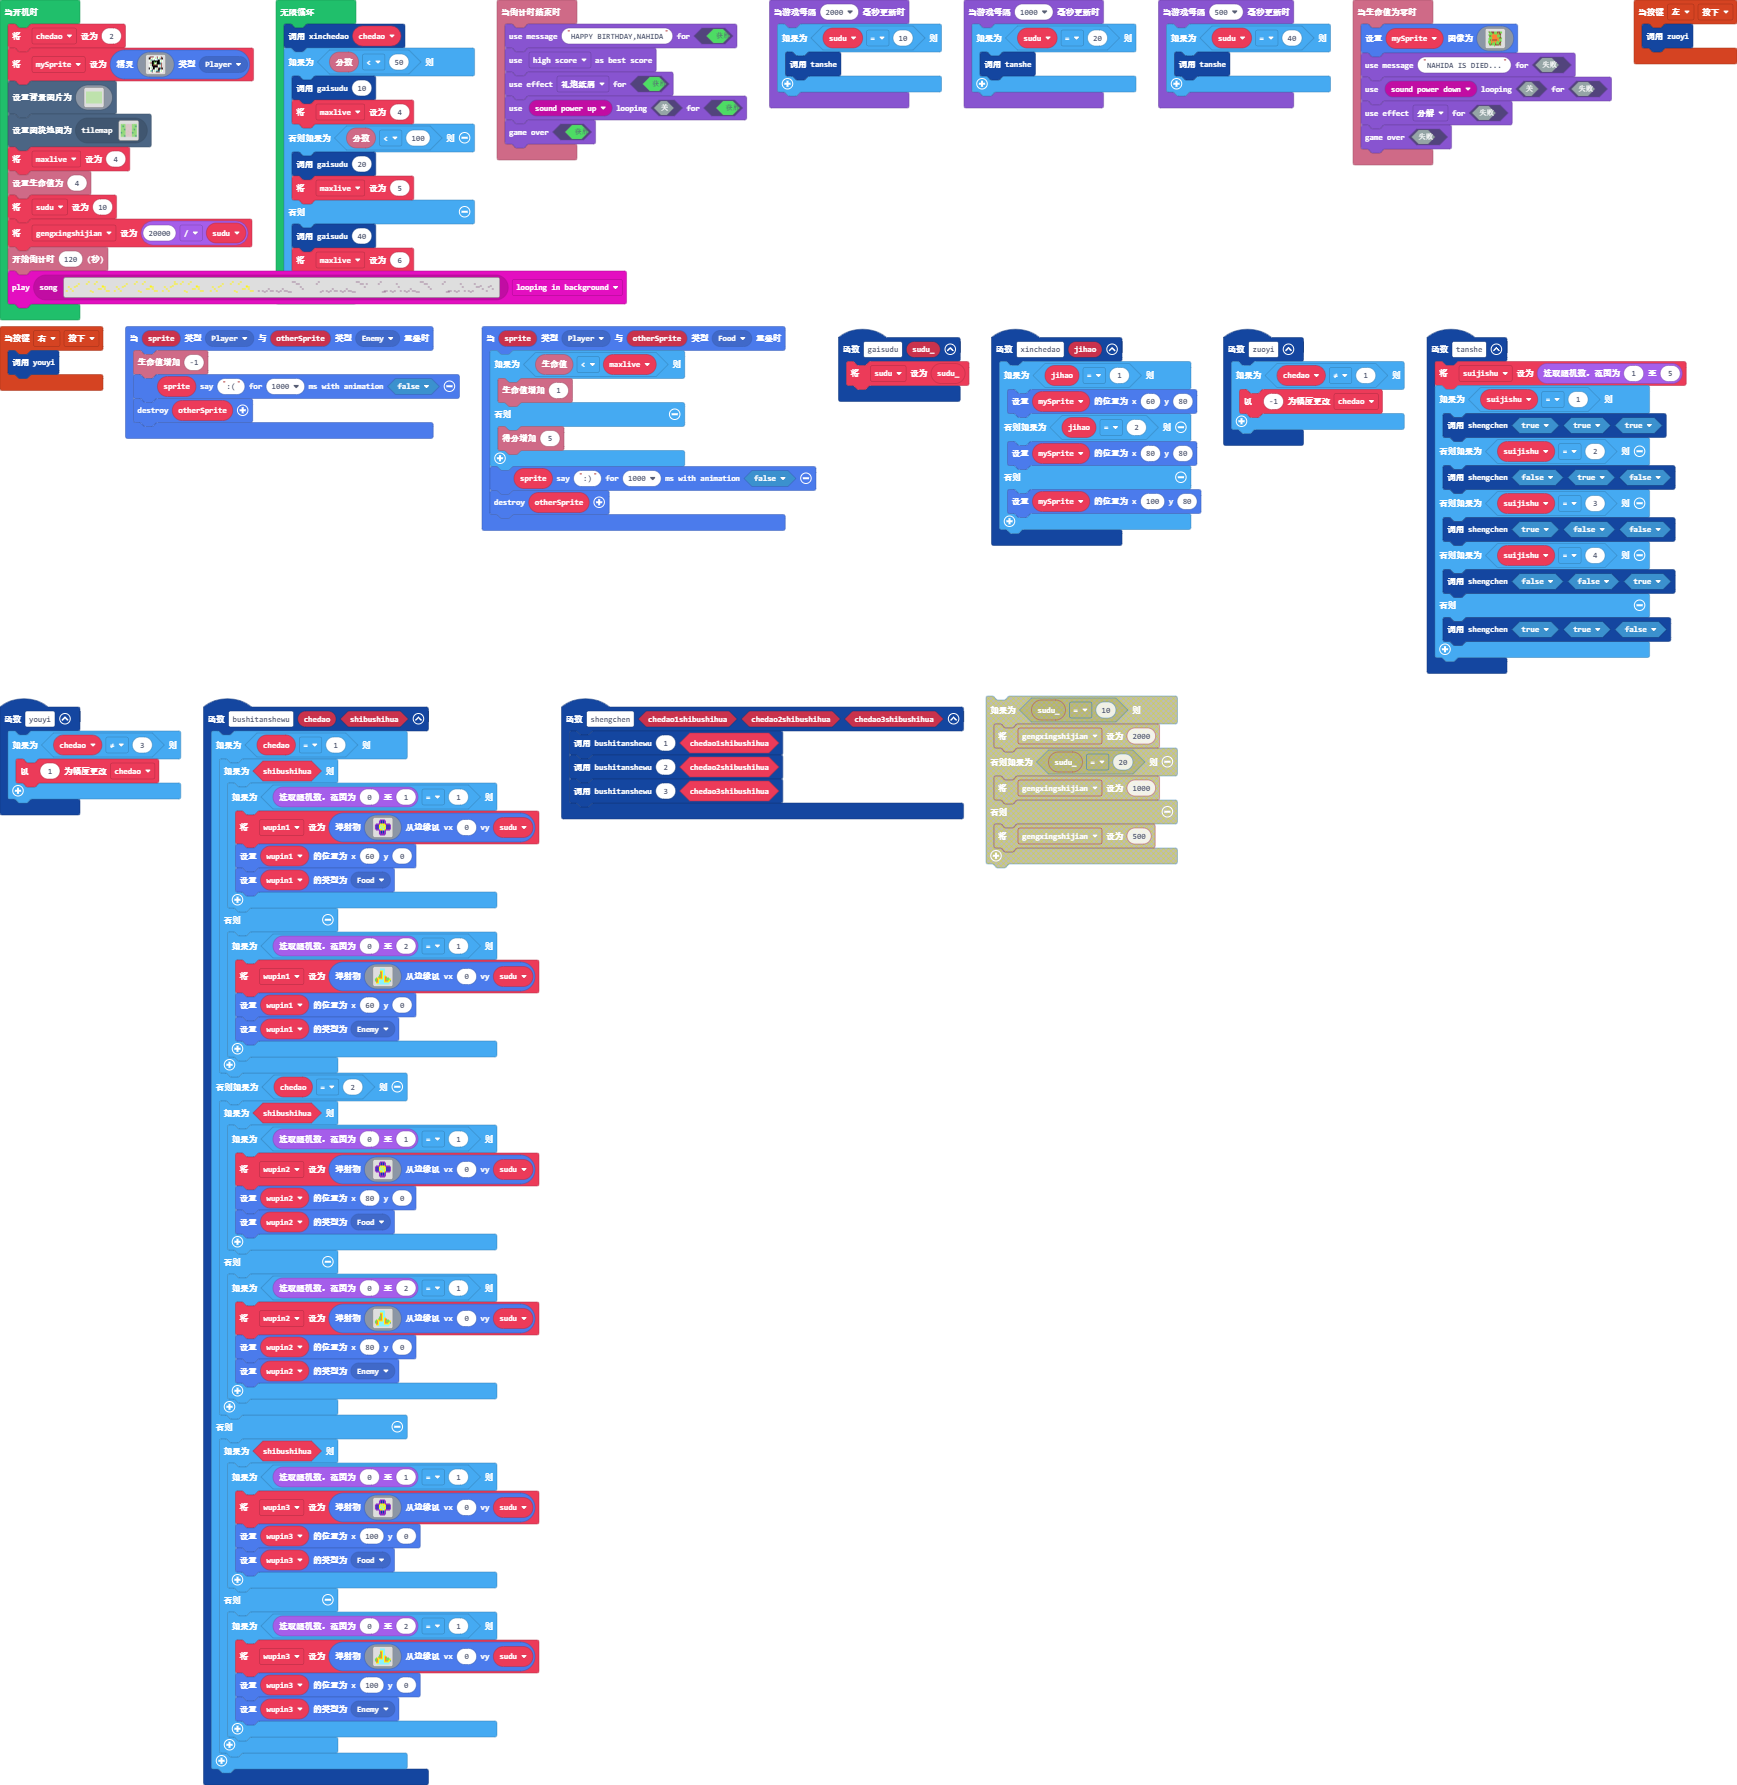
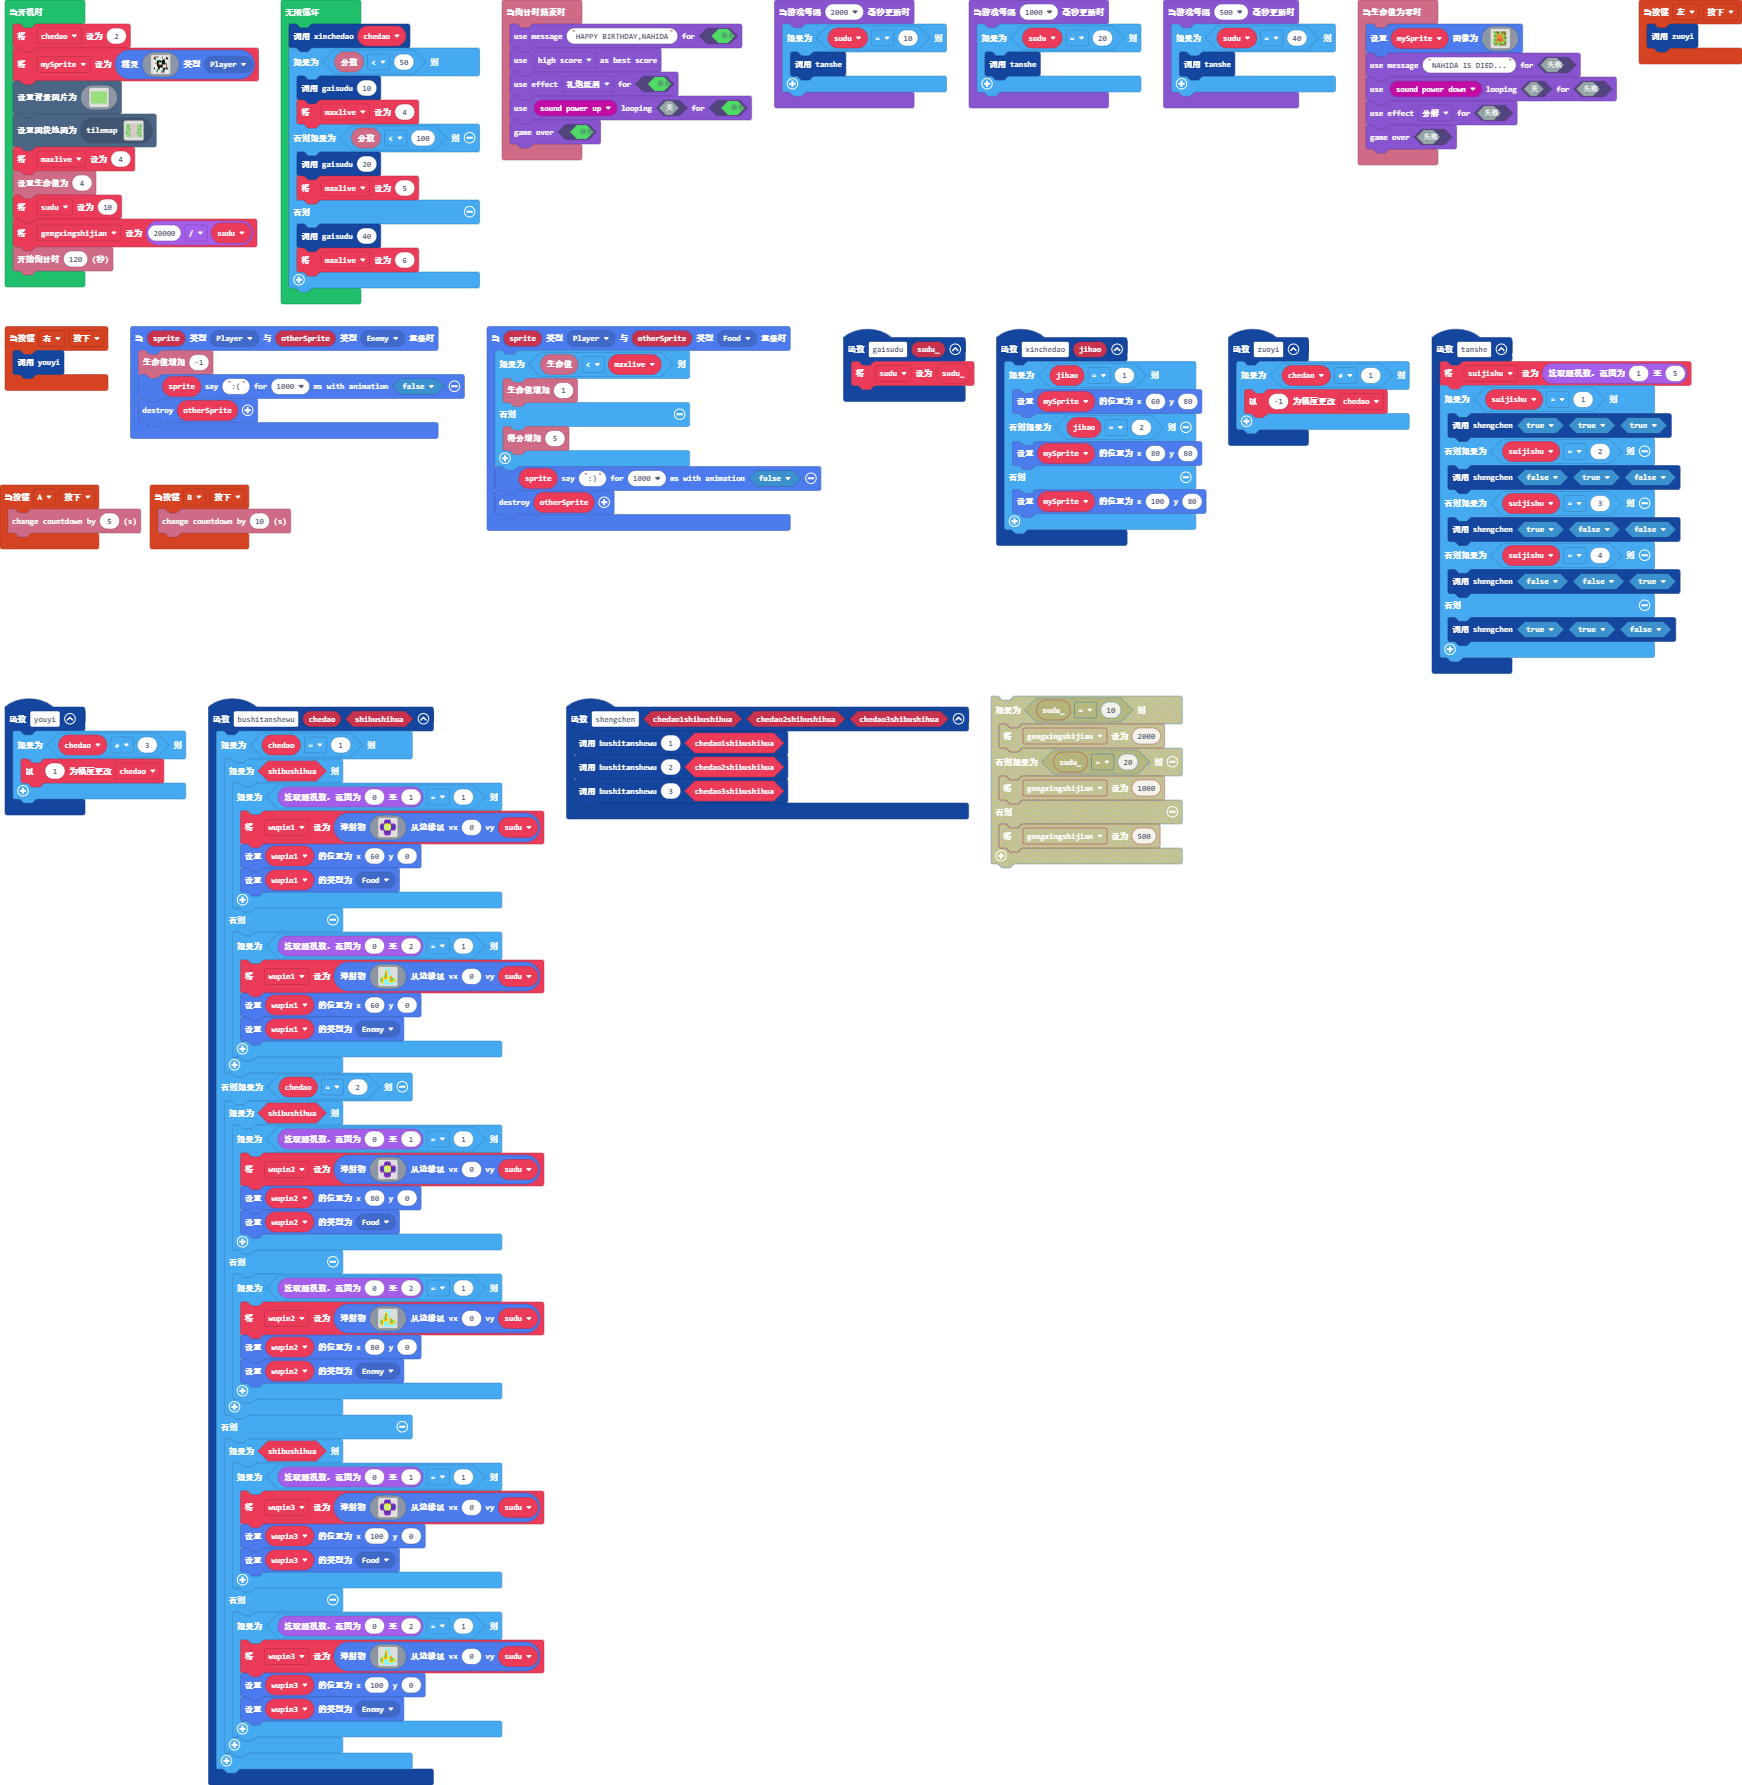
删掉了阴乐，添加了加时间功能

diff --git a/images.g.ts b/images.g.ts
@@ -235,7 +235,7 @@ a a a a 9 5 5 9 9 5 5 a a a a a
     helpers._registerFactory("song", function(name: string) {
         switch(helpers.stringTrim(name)) {
             case "song1":
[2 lines of base64/hex data omitted]
         }
         return null;
     })

diff --git a/main.ts b/main.ts
@@ -17,6 +17,9 @@ function xinchedao (jihao: number) {
         mySprite.setPosition(100, 80)
     }
 }
+controller.A.onEvent(ControllerButtonEvent.Pressed, function () {
+    info.changeCountdownBy(5)
+})
 function tanshe () {
     suijishu = randint(1, 5)
     if (suijishu == 1) {
@@ -40,6 +43,9 @@ info.onCountdownEnd(function () {
     game.setGameOverEffect(true, effects.confetti)
     game.setGameOverPlayable(true, music.melodyPlayable(music.powerUp), false)
     game.gameOver(true)
+})
+controller.B.onEvent(ControllerButtonEvent.Pressed, function () {
+    info.changeCountdownBy(10)
 })
 function youyi () {
     if (chedao != 3) {
@@ -135,7 +141,6 @@ info.setLife(4)
 sudu = 10
 let gengxingshijian = 20000 / sudu
 info.startCountdown(120)
-music.play(music.createSong(assets.song`bgm`), music.PlaybackMode.LoopingInBackground)
 game.onUpdateInterval(2000, function () {
     if (sudu == 10) {
         tanshe()
